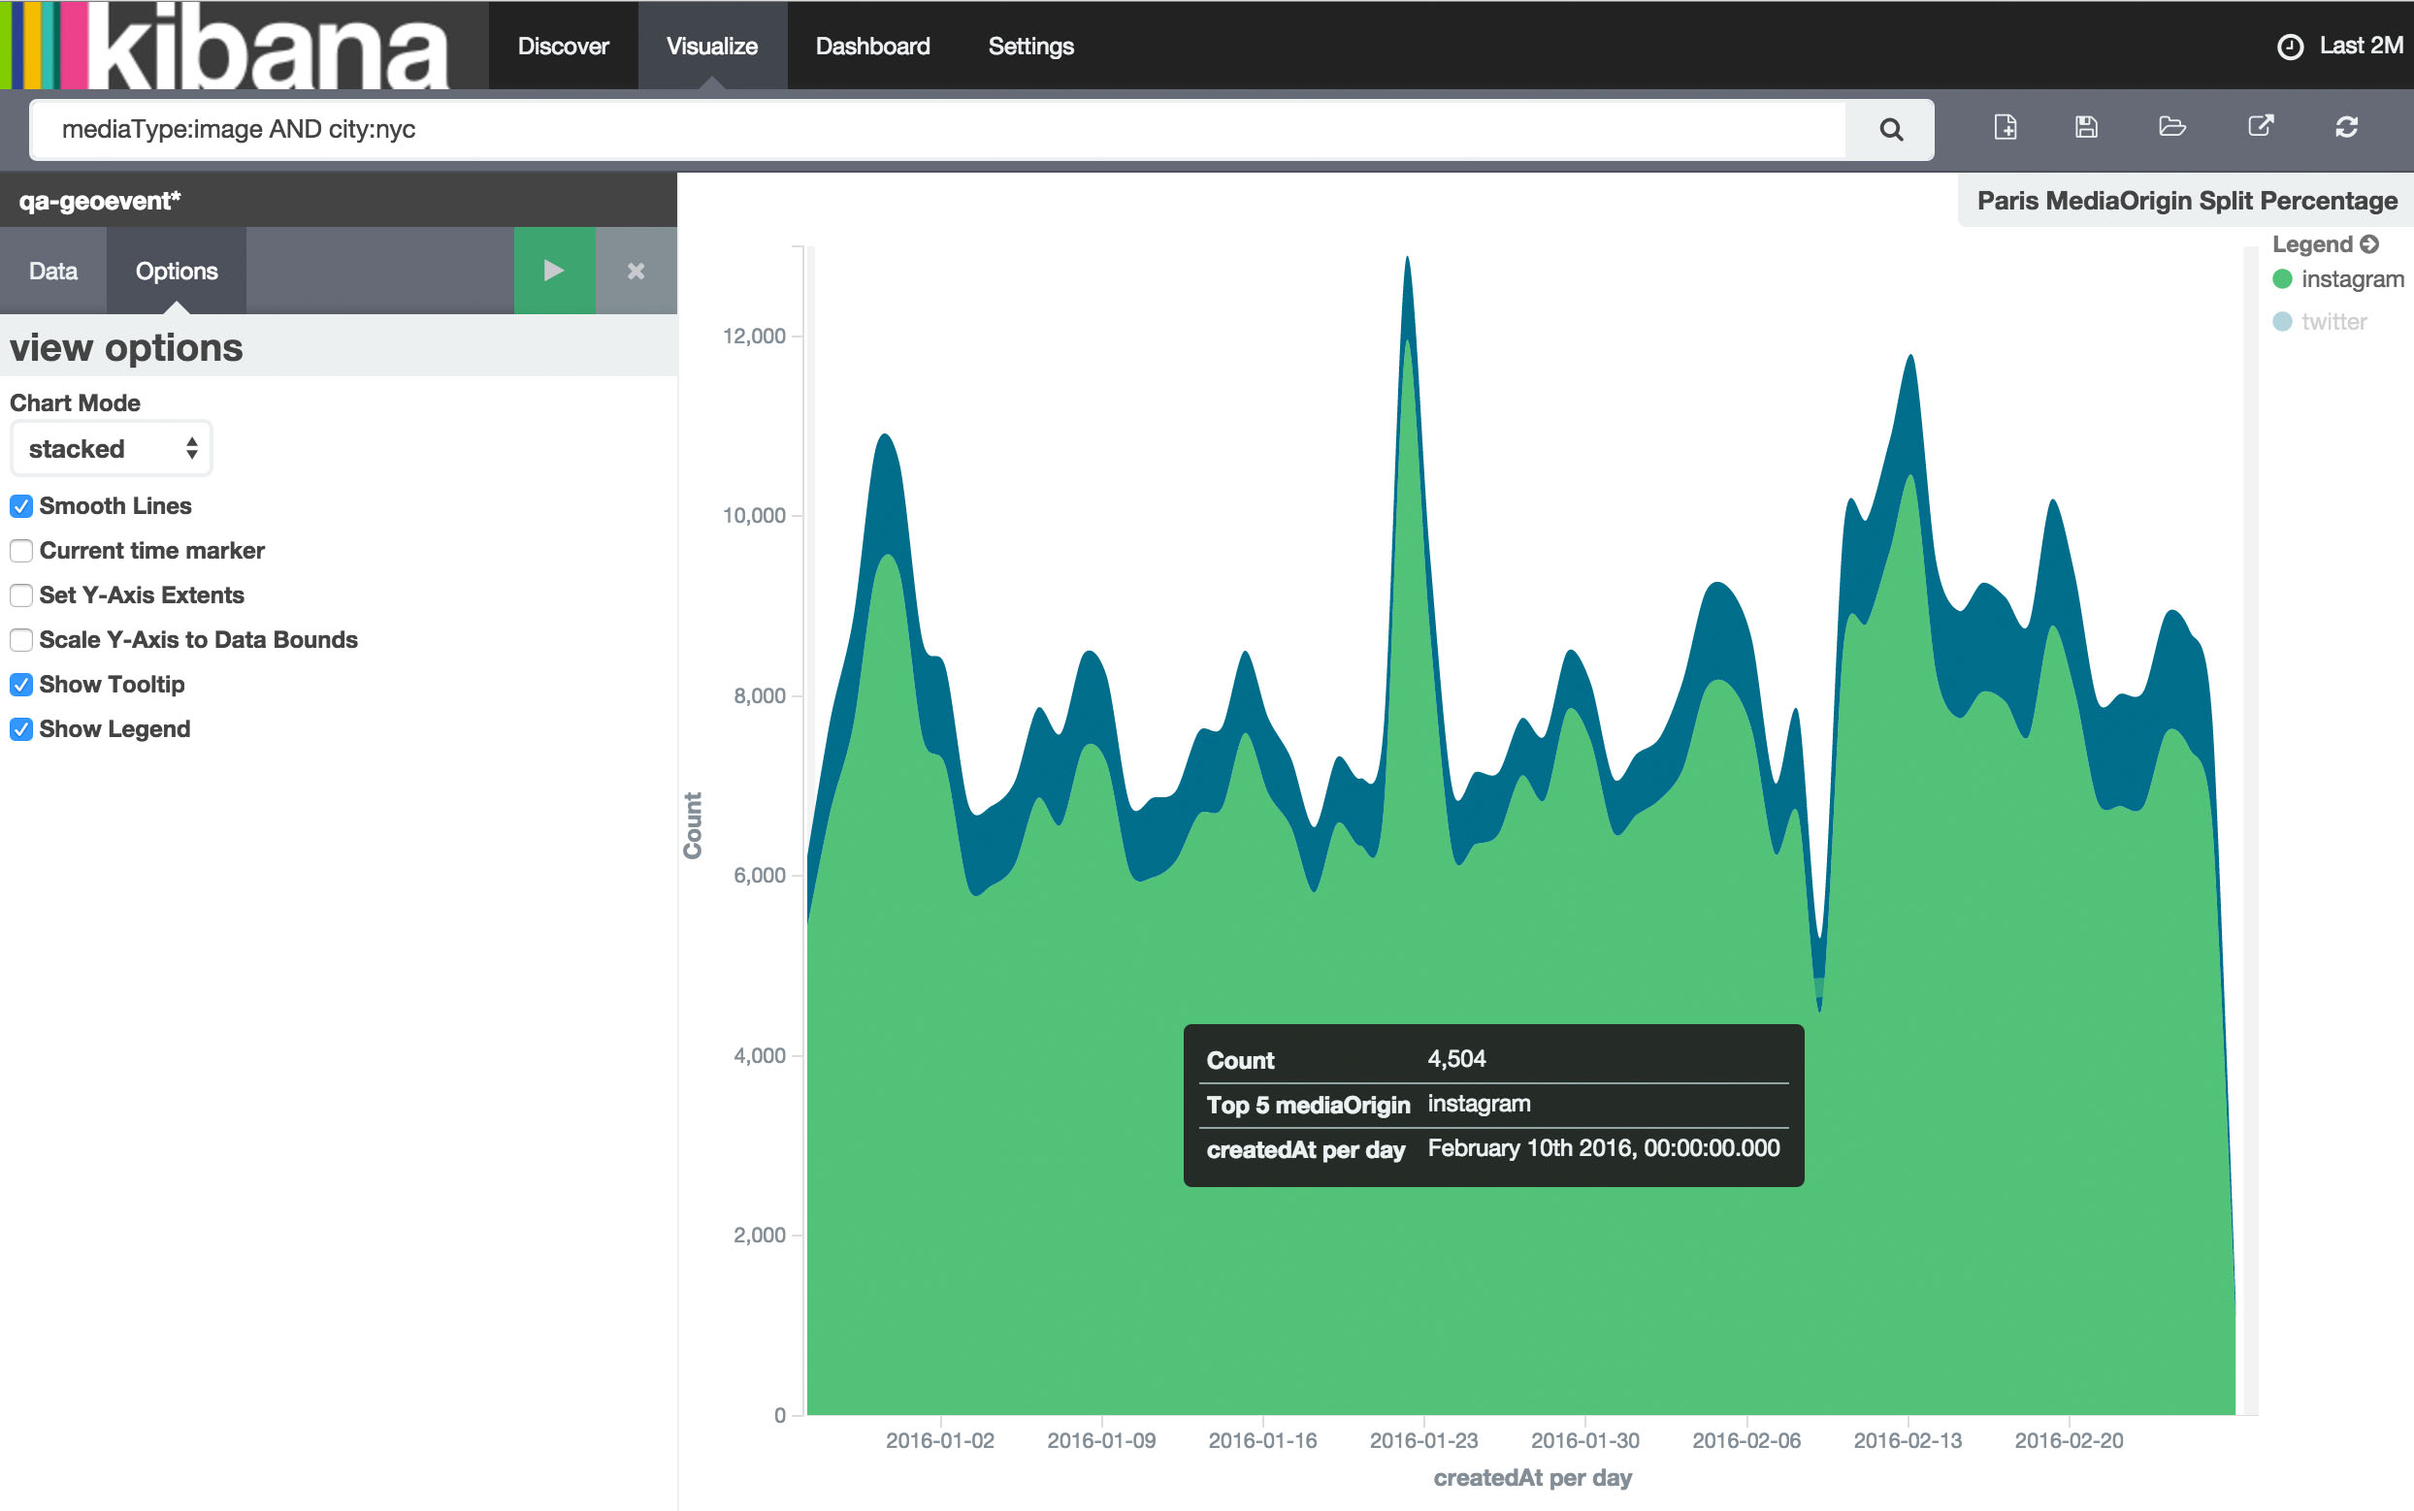
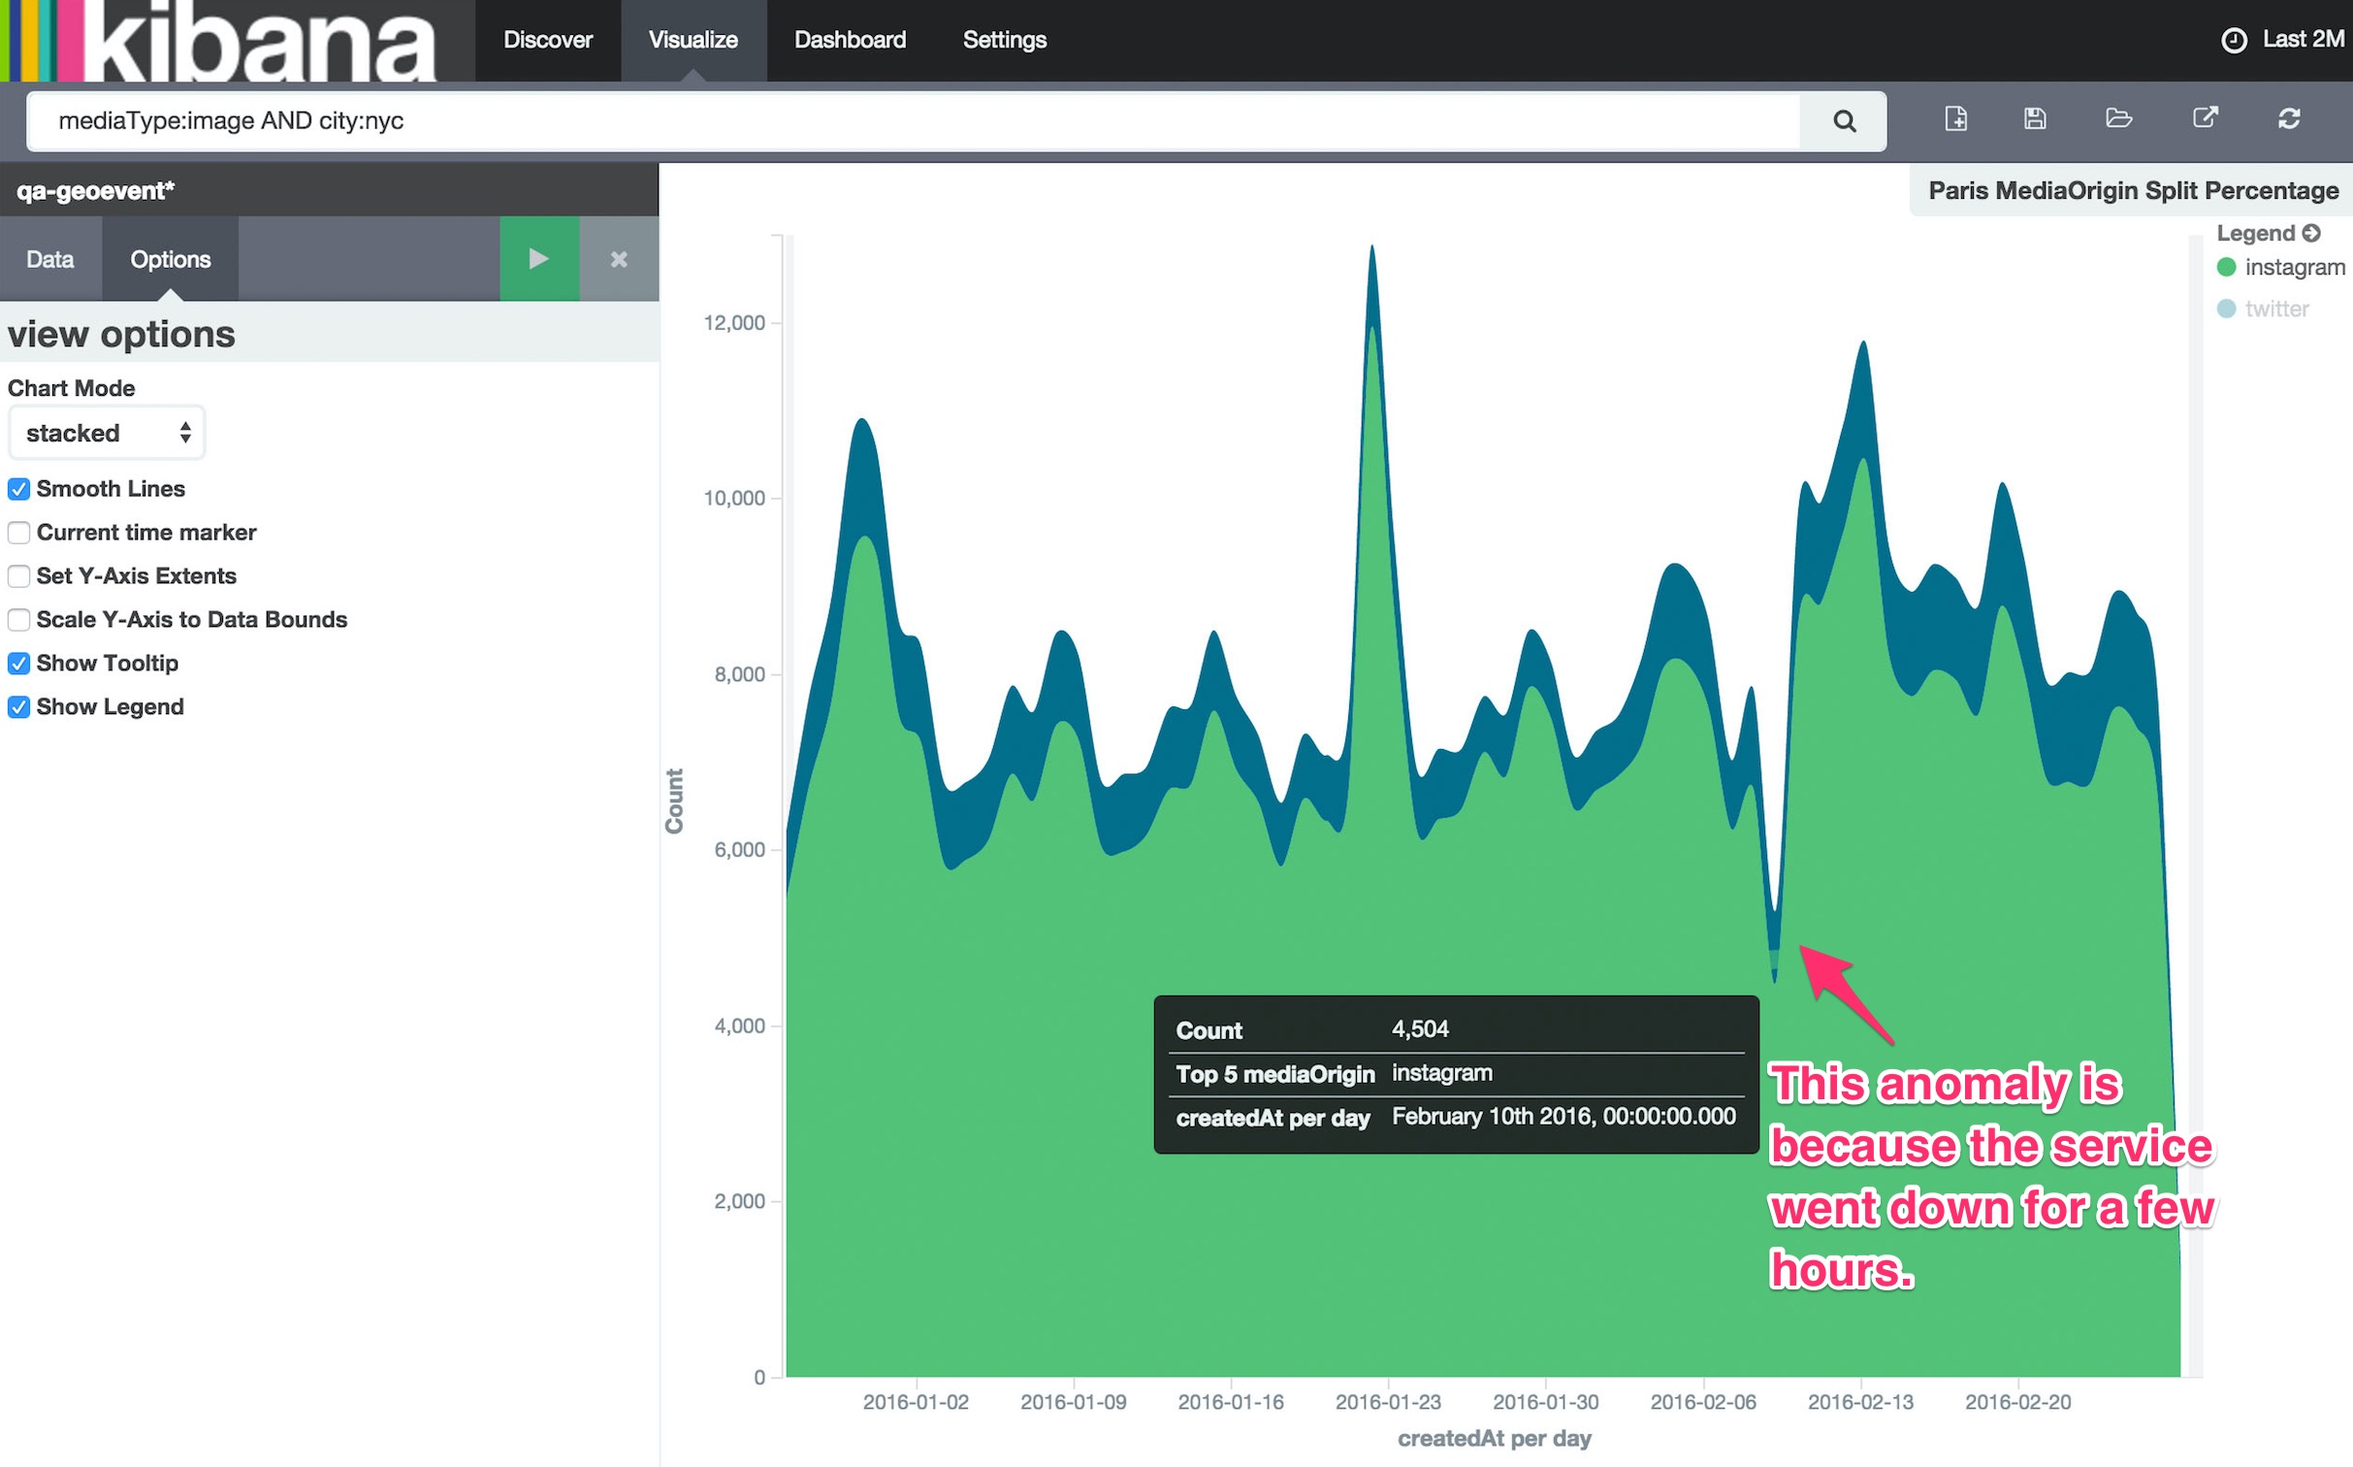
Add another h2 how much is IG and update image for beat da street

diff --git a/_posts/2016-02-28-using-apis-to-beat-wallstreet-estimates.md b/_posts/2016-02-28-using-apis-to-beat-wallstreet-estimates.md
@@ -29,13 +29,15 @@ This tweet, despite being all text, is actually classified as an `image` in the 
 }
 {% endhighlight %}
 
-I knew a lot of the traffic was Instagram but I wasn't sure how much. All my tweets live in Elasticsearch, which has a data visualization
+## How many Twitter Images are actually Instagram?
+
+I knew a lot of the traffic were links to Instagram but I wasn't sure how much. All my tweets live in Elasticsearch, which has a data visualization
 tool called [Kibana](https://www.elastic.co/products/kibana). It allowed me to chart what percentage of twitter images were actually Instagram links.
 Let's start with New York City and see what we have:
 
 ![Twitter NYC Stacked](/public/images/twitterbeatdastreet/TwitterNycImagesStacked.jpg)
 
-Man that's a lot of instagram. Let's check it out as a percentage.
+Man that's a lot of Instagram. Let's check it out as a percentage.
 
 ![Twitter NYC Percentage](/public/images/twitterbeatdastreet/TwitterNycMediaSplit.jpg)
 
